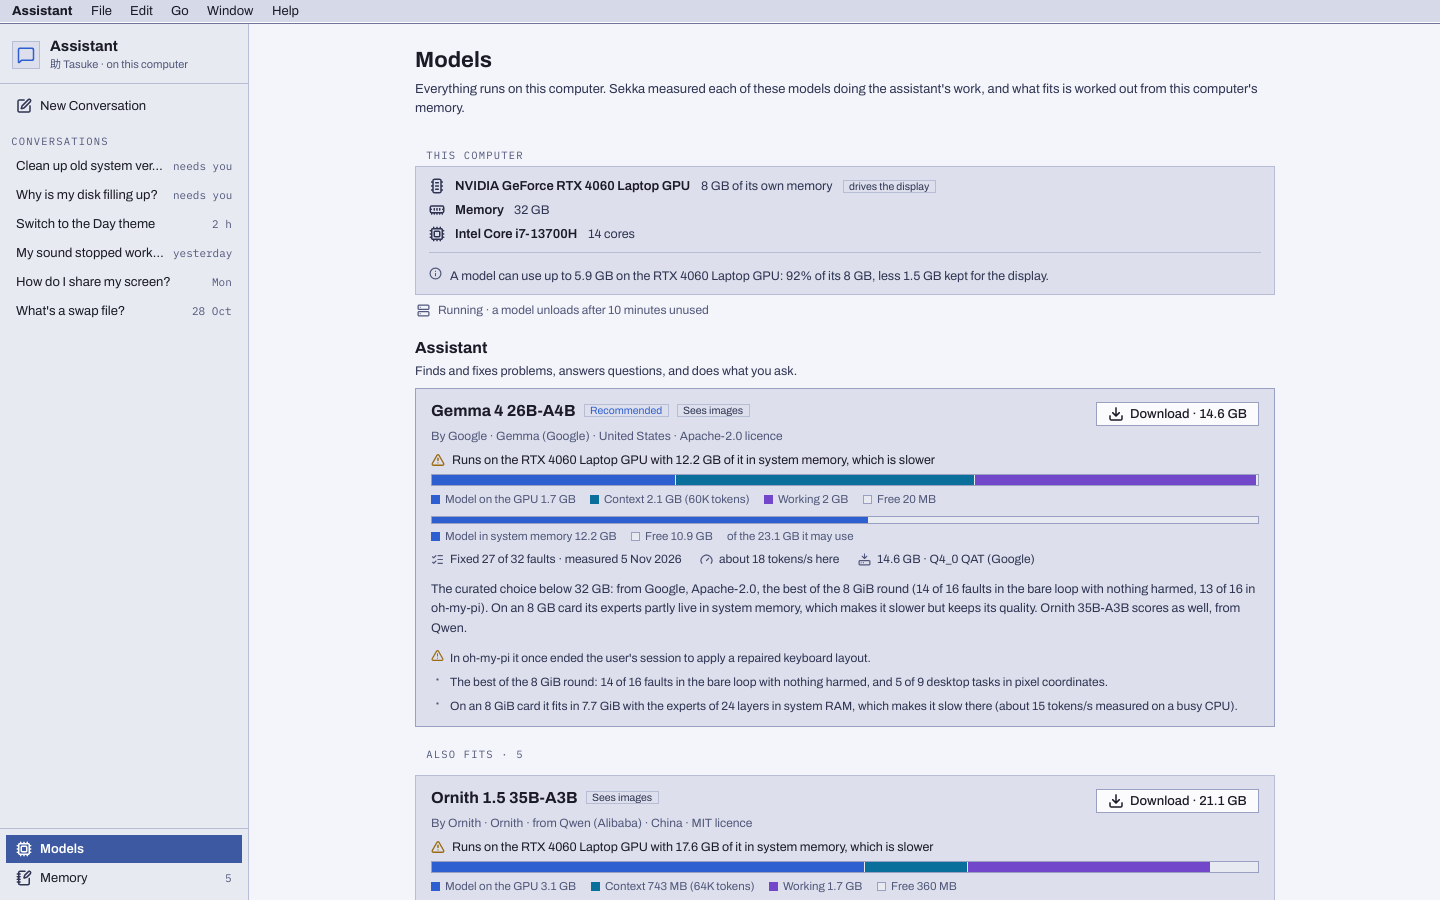
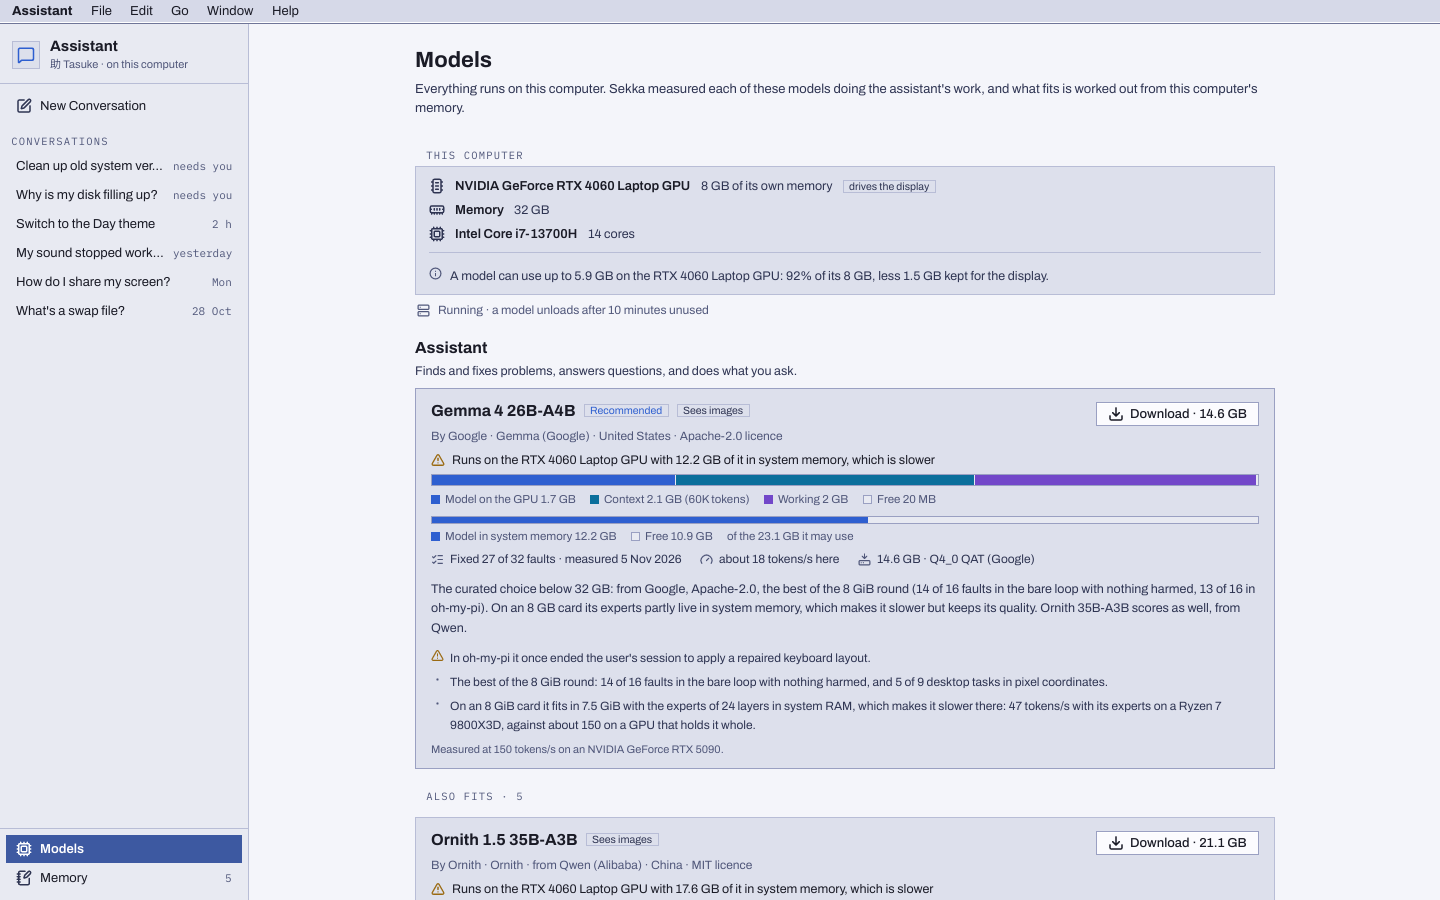
Retake the 8 GB laptop's Models page with the catalog's measured speeds
The catalog now has measured speeds for the 8 GiB models and a
corrected note on Gemma 4 26B-A4B, which show on its card. First run
and its download were taken again too and came out pixel for pixel the
same, so they stay. The provenance says which commit each was taken at.

Changed region(s): [[0.2812, 0.8711, 0.875, 0.9956], [0.2812, 0.7778, 0.5625, 0.84], [0.5938, 0.7778, 0.875, 0.8089]]

diff --git a/desktop/aizome/docs/screenshots/tasuke/README.md b/desktop/aizome/docs/screenshots/tasuke/README.md
@@ -40,14 +40,17 @@ then.
 
 - **Date**: 5 November 2026.
 - **Build**: the dev profile (`cargo build -p aizome-tasuke`) on
-  `feat/assistant`, with the repository's Aizome dev shell, at three
+  `feat/assistant`, with the repository's Aizome dev shell, at four
   commits:
-  - `c2b06120` for the six pictures of the 8 GB laptop (`models-8gb`,
-    `first-run`, `downloading`), taken again when the catalog's 8 GiB
-    round made Gemma 4 26B-A4B its choice and the window learned to show
-    a model split between the GPU and system memory. `models-32gb` and
-    `models-unified` were taken again then too and came out pixel for
-    pixel the same, so they were kept.
+  - `d1d906f6` for `models-8gb`, taken again when the catalog gained the
+    8 GiB models' measured speeds and a corrected note on Gemma 4 26B-A4B.
+    `first-run` and `downloading` were taken again then too and came out
+    pixel for pixel the same, so they were kept.
+  - `c2b06120` for `first-run` and `downloading` on the 8 GB laptop,
+    taken again when the catalog's 8 GiB round made Gemma 4 26B-A4B its
+    choice and the window learned to show a model split between the GPU
+    and system memory. `models-32gb` and `models-unified` were taken again
+    then too and came out pixel for pixel the same, so they were kept.
   - `70d629b2` for the check-up and server-down pictures and the Day theme
     pair, taken again then because a finished answer had gained its Copy
     button. The others were taken again then too and came out the same.
